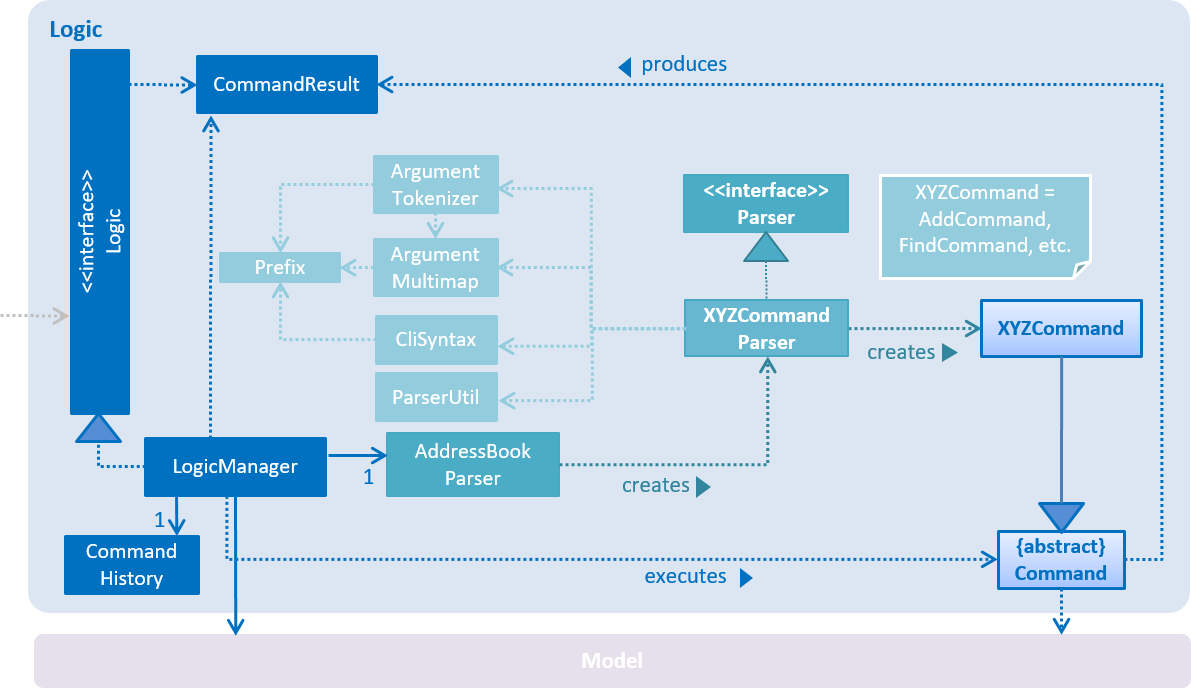
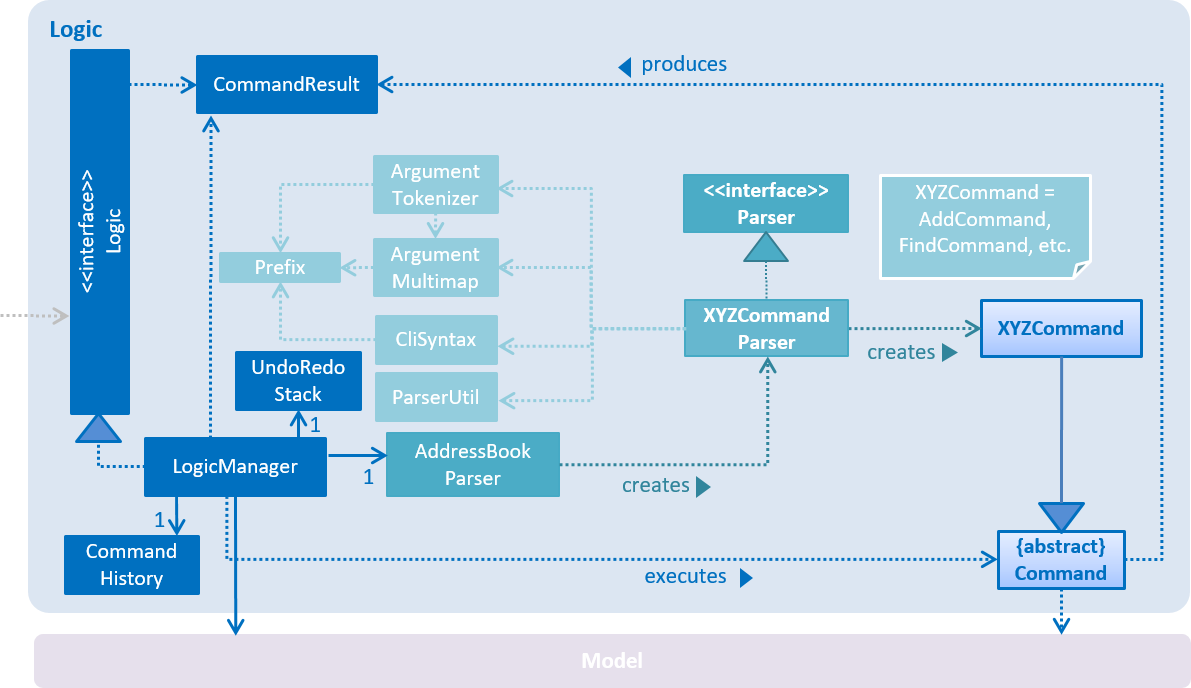
Rebuild pages at 5d60018c460e856c4b56cbff5822d4b1ca809f17

Changed region(s): [[0.1864, 0.4884, 0.3107, 0.641]]

diff --git a/UserGuide.html b/UserGuide.html
@@ -35,9 +35,11 @@
 <li><a href="#deleting-a-person-code-delete-code">2.6. Deleting a person : <code>delete</code></a></li>
 <li><a href="#select-a-person-code-select-code">2.7. Select a person : <code>select</code></a></li>
 <li><a href="#listing-entered-commands-code-history-code">2.8. Listing entered commands : <code>history</code></a></li>
-<li><a href="#clearing-all-entries-code-clear-code">2.9. Clearing all entries : <code>clear</code></a></li>
-<li><a href="#exiting-the-program-code-exit-code">2.10. Exiting the program : <code>exit</code></a></li>
-<li><a href="#saving-the-data">2.11. Saving the data</a></li>
+<li><a href="#undo-previous-command-code-undo-code">2.9. Undo previous command : <code>undo</code></a></li>
+<li><a href="#redo-the-previously-undone-command-code-redo-code">2.10. Redo the previously undone command : <code>redo</code></a></li>
+<li><a href="#clearing-all-entries-code-clear-code">2.11. Clearing all entries : <code>clear</code></a></li>
+<li><a href="#exiting-the-program-code-exit-code">2.12. Exiting the program : <code>exit</code></a></li>
+<li><a href="#saving-the-data">2.13. Saving the data</a></li>
 </ul>
 </li>
 <li><a href="#faq">3. FAQ</a></li>
@@ -274,7 +276,7 @@ Returns Any person having names <code>Betsy</code>, <code>Tim</code>, or <code>J
 <div class="sect2">
 <h3 id="deleting-a-person-code-delete-code"><a class="link" href="#deleting-a-person-code-delete-code">2.6. Deleting a person : <code>delete</code></a></h3>
 <div class="paragraph">
-<p>Deletes the specified person from the address book. Irreversible.<br>
+<p>Deletes the specified person from the address book.<br>
 Format: <code>delete INDEX</code></p>
 </div>
 <div class="sidebarblock">
@@ -375,21 +377,98 @@ Format: <code>history</code></p>
 </div>
 </div>
 <div class="sect2">
-<h3 id="clearing-all-entries-code-clear-code"><a class="link" href="#clearing-all-entries-code-clear-code">2.9. Clearing all entries : <code>clear</code></a></h3>
+<h3 id="undo-previous-command-code-undo-code"><a class="link" href="#undo-previous-command-code-undo-code">2.9. Undo previous command : <code>undo</code></a></h3>
+<div class="paragraph">
+<p>Restores the address book to the state before the previous <em>undoable</em> command was executed.<br>
+Format: <code>undo</code></p>
+</div>
+<div class="admonitionblock note">
+<table>
+<tr>
+<td class="icon">
+<i class="fa icon-note" title="Note"></i>
+</td>
+<td class="content">
+<div class="paragraph">
+<p>Undoable commands: those commands that modify the address book&#8217;s content (<code>add</code>, <code>delete</code>, <code>edit</code> and <code>clear</code>).</p>
+</div>
+</td>
+</tr>
+</table>
+</div>
+<div class="paragraph">
+<p>Examples:</p>
+</div>
+<div class="ulist">
+<ul>
+<li>
+<p><code>delete 1</code><br>
+<code>list</code><br>
+<code>undo</code> (reverses the <code>delete 1</code> command)<br></p>
+</li>
+<li>
+<p><code>select 1</code><br>
+<code>list</code><br>
+<code>undo</code><br>
+The <code>undo</code> command fails as there are no undoable commands executed previously.</p>
+</li>
+<li>
+<p><code>delete 1</code><br>
+<code>clear</code><br>
+<code>undo</code> (reverses the <code>clear</code> command)<br>
+<code>undo</code> (reverses the <code>delete 1</code> command)<br></p>
+</li>
+</ul>
+</div>
+</div>
+<div class="sect2">
+<h3 id="redo-the-previously-undone-command-code-redo-code"><a class="link" href="#redo-the-previously-undone-command-code-redo-code">2.10. Redo the previously undone command : <code>redo</code></a></h3>
+<div class="paragraph">
+<p>Reverses the most recent <code>undo</code> command.<br>
+Format: <code>redo</code></p>
+</div>
+<div class="paragraph">
+<p>Examples:</p>
+</div>
+<div class="ulist">
+<ul>
+<li>
+<p><code>delete 1</code><br>
+<code>undo</code> (reverses the <code>delete 1</code> command)<br>
+<code>redo</code> (reapplies the <code>delete 1</code> command)<br></p>
+</li>
+<li>
+<p><code>delete 1</code><br>
+<code>redo</code><br>
+The <code>redo</code> command fails as there are no <code>undo</code> commands executed previously.</p>
+</li>
+<li>
+<p><code>delete 1</code><br>
+<code>clear</code><br>
+<code>undo</code> (reverses the <code>clear</code> command)<br>
+<code>undo</code> (reverses the <code>delete 1</code> command)<br>
+<code>redo</code> (reapplies the <code>delete 1</code> command)<br>
+<code>redo</code> (reapplies the <code>clear</code> command)<br></p>
+</li>
+</ul>
+</div>
+</div>
+<div class="sect2">
+<h3 id="clearing-all-entries-code-clear-code"><a class="link" href="#clearing-all-entries-code-clear-code">2.11. Clearing all entries : <code>clear</code></a></h3>
 <div class="paragraph">
 <p>Clears all entries from the address book.<br>
 Format: <code>clear</code></p>
 </div>
 </div>
 <div class="sect2">
-<h3 id="exiting-the-program-code-exit-code"><a class="link" href="#exiting-the-program-code-exit-code">2.10. Exiting the program : <code>exit</code></a></h3>
+<h3 id="exiting-the-program-code-exit-code"><a class="link" href="#exiting-the-program-code-exit-code">2.12. Exiting the program : <code>exit</code></a></h3>
 <div class="paragraph">
 <p>Exits the program.<br>
 Format: <code>exit</code></p>
 </div>
 </div>
 <div class="sect2">
-<h3 id="saving-the-data"><a class="link" href="#saving-the-data">2.11. Saving the data</a></h3>
+<h3 id="saving-the-data"><a class="link" href="#saving-the-data">2.13. Saving the data</a></h3>
 <div class="paragraph">
 <p>Address book data are saved in the hard disk automatically after any command that changes the data.<br>
 There is no need to save manually.</p>
@@ -439,6 +518,12 @@ e.g.<code>select 2</code></p>
 <li>
 <p><strong>History</strong> : <code>history</code></p>
 </li>
+<li>
+<p><strong>Undo</strong> : <code>undo</code></p>
+</li>
+<li>
+<p><strong>Redo</strong> : <code>redo</code></p>
+</li>
 </ul>
 </div>
 </div>
@@ -446,7 +531,7 @@ e.g.<code>select 2</code></p>
 </div>
 <div id="footer">
 <div id="footer-text">
-Last updated 2017-07-21 05:56:57 +00:00
+Last updated 2017-07-21 07:39:14 +00:00
 </div>
 </div>
 </body>

diff --git a/DeveloperGuide.html b/DeveloperGuide.html
@@ -444,6 +444,14 @@ Note how the event is propagated through the <code>EventsCenter</code> to the <c
 <div class="paragraph">
 <p><em>Figure 2.3.1 : Structure of the Logic Component</em></p>
 </div>
+<div class="imageblock">
+<div class="content">
+<img src="images/LogicCommandClassDiagram.png" alt="LogicCommandClassDiagram" width="800">
+</div>
+</div>
+<div class="paragraph">
+<p><em>Figure 2.3.2 : Structure of Commands in the Logic Component. This diagram shows finer details concerning <code>XYZCommand</code> and <code>Command</code> in Figure 2.3.1</em></p>
+</div>
 <div class="paragraph">
 <p><strong>API</strong> :
 <a href="https://github.com/se-edu/addressbook-level4/tree/master/src/main/java/seedu/address/logic/Logic.java"><code>Logic.java</code></a></p>
@@ -973,7 +981,7 @@ Use case resumes at step 2</p>
 </div>
 <div id="footer">
 <div id="footer-text">
-Last updated 2017-07-21 05:56:57 +00:00
+Last updated 2017-07-21 07:39:14 +00:00
 </div>
 </div>
 </body>

diff --git a/LearningOutcomes.html b/LearningOutcomes.html
@@ -589,7 +589,7 @@ class gives some examples of how to use <em>Equivalence Partitions</em>, <em>Bou
 </div>
 <div id="footer">
 <div id="footer-text">
-Last updated 2017-07-21 05:56:57 +00:00
+Last updated 2017-07-21 07:39:14 +00:00
 </div>
 </div>
 </body>

diff --git a/UsingGradle.html b/UsingGradle.html
@@ -261,7 +261,7 @@ See <code>build.gradle</code> &#8594; <code>allprojects</code> &#8594; <code>dep
 </div>
 <div id="footer">
 <div id="footer-text">
-Last updated 2017-07-21 05:56:57 +00:00
+Last updated 2017-07-21 07:39:14 +00:00
 </div>
 </div>
 </body>

diff --git a/TestDocument.html b/TestDocument.html
@@ -178,7 +178,7 @@ This should be on a new line.</p>
 </div>
 <div id="footer">
 <div id="footer-text">
-Last updated 2017-07-21 05:56:57 +00:00
+Last updated 2017-07-21 07:39:14 +00:00
 </div>
 </div>
 </body>

diff --git a/AboutUs.html b/AboutUs.html
@@ -120,7 +120,7 @@ Responsibilities: UI</p>
 </div>
 <div id="footer">
 <div id="footer-text">
-Last updated 2017-07-21 05:56:57 +00:00
+Last updated 2017-07-21 07:39:14 +00:00
 </div>
 </div>
 </body>

diff --git a/UsingAppVeyor.html b/UsingAppVeyor.html
@@ -174,7 +174,7 @@ grant access:</p>
 </div>
 <div id="footer">
 <div id="footer-text">
-Last updated 2017-07-21 05:56:57 +00:00
+Last updated 2017-07-21 07:39:14 +00:00
 </div>
 </div>
 </body>

diff --git a/UsingTravis.html b/UsingTravis.html
@@ -169,7 +169,7 @@
 </div>
 <div id="footer">
 <div id="footer-text">
-Last updated 2017-07-21 05:56:57 +00:00
+Last updated 2017-07-21 07:39:14 +00:00
 </div>
 </div>
 </body>

diff --git a/index.html b/index.html
@@ -105,7 +105,7 @@
 </div>
 <div id="footer">
 <div id="footer-text">
-Last updated 2017-07-21 05:56:57 +00:00
+Last updated 2017-07-21 07:39:14 +00:00
 </div>
 </div>
 </body>

diff --git a/ContactUs.html b/ContactUs.html
@@ -31,7 +31,7 @@
 </div>
 <div id="footer">
 <div id="footer-text">
-Last updated 2017-07-21 05:56:57 +00:00
+Last updated 2017-07-21 07:39:14 +00:00
 </div>
 </div>
 </body>

diff --git a/UsingGithubPages.html b/UsingGithubPages.html
@@ -81,7 +81,7 @@
 </div>
 <div id="footer">
 <div id="footer-text">
-Last updated 2017-07-21 05:56:57 +00:00
+Last updated 2017-07-21 07:39:14 +00:00
 </div>
 </div>
 </body>
